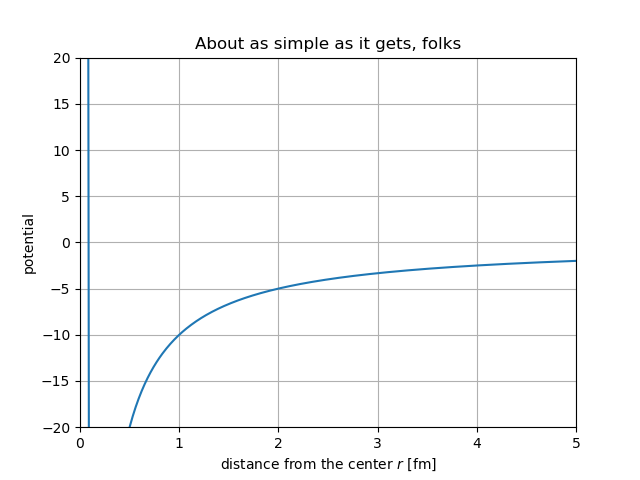
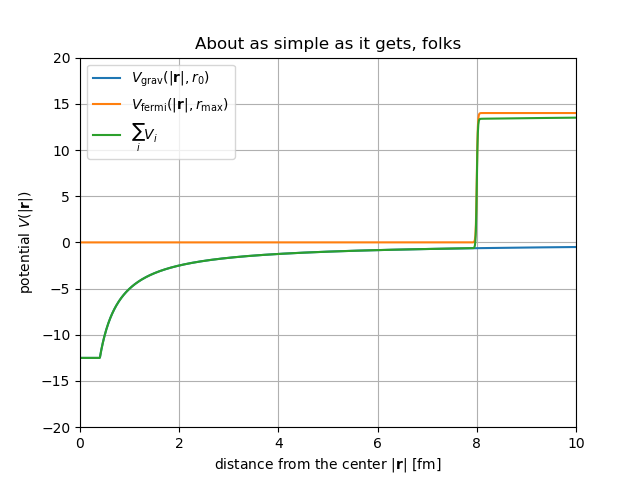
multi-force-center geometry added

diff --git a/a-physicists-journey/central_ff_problem_2.py b/a-physicists-journey/central_ff_problem_2.py
@@ -1,0 +1,178 @@
+import time
+import numpy as np
+import matplotlib.pyplot as plt
+import more_itertools
+import pygame
+
+pygame.init()
+infos = pygame.display.Info()
+screen_size = (infos.current_w, infos.current_h)
+
+SCREEN_WIDTH = screen_size[0]
+SCREEN_HEIGHT = screen_size[1]
+ON_SCREEN_ORIGIN = (int(SCREEN_WIDTH / 2), int(SCREEN_HEIGHT / 2))
+
+
+def model_to_screen(coords):
+    return (ON_SCREEN_ORIGIN[0] + coords[0], ON_SCREEN_ORIGIN[1] + coords[1])
+
+
+CHARCOAL = (54, 69, 79)
+
+t_initial = 0
+t_final = 1e3
+dt = 1.0
+
+# model system:
+number_of_particles = 2
+
+particle_color = np.tile([204, 17, 0], [number_of_particles, 1])
+
+particle_size = list(
+    more_itertools.collapse(np.tile(6, [number_of_particles, 1])))
+
+r0 = np.random.randint(low=-20, high=60, size=(number_of_particles, 2))
+r0 = np.tile([100, 100], (2, 1))
+
+initial_distances_from_center = [np.sqrt(r[0]**2 + r[1]**2) for r in r0]
+
+v0 = np.random.uniform(low=-0.5, high=0.5, size=(number_of_particles, 2))
+
+force_strength = 323
+center_color = [250, 255, 250]
+center_size = 7
+R_cut = center_size
+fermi_depth = 0.
+fermi_slope = 3.2
+fermi_radius = 200
+
+
+# 1/r potential with centre at pos c => -k*(r-c)/(r-c)^3 force
+# particle masses are identical and set to 1
+# if the particles' distance to a center is less than the center's plus the particle's
+# radius, the particle experiences a repulsion
+def gforce(coords, k, cntr=[0, 0]):
+
+    dist_vecs = [
+        np.sqrt((coord[0] - cntr[0])**2 + (coord[1] - cntr[1])**2)
+        for coord in coords
+    ]
+
+    frc = []
+    for i in range(len(coords)):
+
+        if dist_vecs[i] == 0.0:
+            frc.append(np.array([0, 0]))
+        elif 0 < dist_vecs[i] < (R_cut + particle_size[i]):
+            frc.append(
+                np.abs(0.0001 * k) * np.array([
+                    np.abs(coords[i][0] - cntr[0]) / dist_vecs[i]**1,
+                    np.abs(coords[i][1] - cntr[1]) / dist_vecs[i]**1
+                ]))
+        elif dist_vecs[i] > R_cut + particle_size[i]:
+            frc.append(k * np.array([
+                -(coords[i][0] - cntr[0]) / dist_vecs[i]**3,
+                -(coords[i][1] - cntr[1]) / dist_vecs[i]**3
+            ]))
+
+    return frc
+
+
+# potential approximation of spatial confinement to a finite volume
+# here: circular disk around the origin with extend r0 and steepness k
+def fforce(coords, l, k, r0):
+
+    dist_vecs = [np.sqrt(coord[0]**2 + coord[1]**2) for coord in coords]
+    frc = [
+        -l / (dist_vecs[i] * k) * np.exp((dist_vecs[i] - r0) / k) /
+        (np.exp(-k * (dist_vecs[i] - r0)) + 1)**2 *
+        np.array([coords[i][0], coords[i][1]]) for i in range(len(coords))
+    ]
+    #if abs(frc[0][0] > 1):
+    #    print(frc)
+    #    time.sleep(5)
+    return frc
+
+
+pygame.init()
+# Open a single window with set dimensions.
+screen = pygame.display.set_mode((SCREEN_WIDTH, SCREEN_HEIGHT))
+
+t = t_initial
+r1 = r0
+
+# define a set of force centers; cf. locations of assumed infinitely
+# heavy nulcei/suns/etc.
+# place N nuclei symmetrically on a circle of radius R around the origin
+nbr_centers = 5
+R_centers = 100
+force_centers = [[
+    R_centers * np.cos(nc * 2 * np.pi / nbr_centers),
+    R_centers * np.sin(nc * 2 * np.pi / nbr_centers)
+] for nc in range(nbr_centers)]
+
+phase_space = []
+
+while t < t_final:
+
+    v = v0
+    # calculate new position vector: r(t+dt) = r(t) + v(t)*dt
+    r2 = [
+        np.array([
+            r1[particle][0] + v0[particle][0] * dt,
+            r1[particle][1] + v0[particle][1] * dt
+        ]) for particle in range(number_of_particles)
+    ]
+
+    r1 = r2
+
+    v0 = [
+        v[particle] + (
+            sum(
+                np.array([
+                    gforce(r2, force_strength, cntr=cc)[particle]
+                    for cc in force_centers
+                ]))
+            #+ fforce(r2, fermi_depth, fermi_slope, fermi_radius)[particle]
+        ) * dt for particle in range(number_of_particles)
+    ]
+    phase_space.append([r2, v])
+    screen.fill(CHARCOAL)
+    # draw the locations of the ``nuclei'' (force centers)
+    for cc in force_centers:
+        ri = np.array(model_to_screen(cc))
+        pygame.draw.circle(screen, center_color, ri.astype(int), center_size)
+
+    # visualize system at t+dt
+    for particle in range(number_of_particles):
+
+        ri2 = np.array(model_to_screen(r2[particle]))
+        try:
+            pygame.draw.circle(screen, particle_color[particle],
+                               ri2.astype(int), particle_size[particle])
+        except:
+            print('pygame run-time error:\nr=', r2, ri2, '\nv=', v0)
+            exit()
+
+# Draw by flipping buffer (double-buffering).
+    pygame.display.flip()
+    t += dt
+
+yy = np.array(phase_space)[:, 0][:, 0][:, 0]
+xx = range(len(yy))
+fig, ax = plt.subplots()
+
+#ax.set_xlim(0, rmax)
+#ax.set_ylim(-20, 20)
+
+ax.plot(xx, yy, label=r'')
+
+ax.set(xlabel=r'distance from the center $|\mathbf{r}|$ [fm]',
+       ylabel=r'potential $V(|\mathbf{r}|)$',
+       title='About as simple as it gets, folks')
+ax.grid()
+
+plt.legend(loc='best', numpoints=1)
+
+fig.savefig("classical_orbits.png")
+#plt.show()

diff --git a/a-physicists-journey/plot_potentials.py b/a-physicists-journey/plot_potentials.py
@@ -2,7 +2,7 @@ import matplotlib.pyplot as plt
 import numpy as np
 
 # Data for plotting
-rmax = 5
+rmax = 10
 r = np.arange(0.001, rmax, 0.01)
 
 
@@ -16,7 +16,6 @@ def graCutPot(r, grav, hardness, range, steepness, cutoff=1e-4):
         deep = hardness / (1 + np.exp(
             (cutoff - range) / steepness)) - grav / cutoff
         pot = hardness / (1 + np.exp((r - range) / steepness)) - deep
-        print(deep, pot)
     return pot
 
 
@@ -24,30 +23,37 @@ def fermiPot(r, strength, range, steepness):
     return strength * (1 - 1 / (1 + np.exp((r - range) / steepness)))
 
 
-graS = -10
-graCut = 1e-1
-fmS = 4
-fmR = graCut
-fmSt = 0.05
-hard = 1500
+graS = -5
+graCut = 4e-1
+hard = 30
+
+fmS = 14
+fmR = 8
+fmSt = 0.01
 
 datG = [gravPot(rr, graS) for rr in r]
 
-datGC = [graCutPot(rr, graS, hard, fmR, fmSt, cutoff=graCut) for rr in r]
+datGC = [graCutPot(rr, graS, hard, *graCut, fmSt, cutoff=graCut) for rr in r]
 datF = [fermiPot(rr, fmS, fmR, fmSt) for rr in r]
+
+datSum = [datF[n] + datGC[n] for n in range(len(datF))]
 
 fig, ax = plt.subplots()
 
 ax.set_xlim(0, rmax)
 ax.set_ylim(-20, 20)
 
-ax.plot(r, datGC)
+ax.plot(r, datGC, label=r'$V_{\rm{grav}}(|\mathbf{r}|,r_0)$')
+ax.plot(r, datF, label=r'$V_{\rm{fermi}}(|\mathbf{r}|,r_{\rm{max}})$')
+ax.plot(r, datSum, label=r'$\sum_i V_i$')
 
 ax.set(
-    xlabel=r'distance from the center $r$ [fm]',
-    ylabel=r'potential',
+    xlabel=r'distance from the center $|\mathbf{r}|$ [fm]',
+    ylabel=r'potential $V(|\mathbf{r}|)$',
     title='About as simple as it gets, folks')
 ax.grid()
+
+plt.legend(loc='best', numpoints=1)
 
 fig.savefig("classical_potentials.png")
 #plt.show()

diff --git a/a-physicists-journey/spiral.py b/a-physicists-journey/spiral.py
@@ -1,0 +1,28 @@
+from mpl_toolkits import mplot3d
+import numpy as np
+import matplotlib.pyplot as plt
+
+fig = plt.figure()
+ax = plt.axes(projection='3d')
+
+z = np.linspace(0, 3, 1500)
+x = -np.exp(-0.5 * z**2) * np.sin(20 * z)
+y = -np.exp(-0.5 * z**2) * np.cos(20 * z)
+
+ax.plot3D(x, y, -z, 'maroon')
+
+z = np.linspace(2, 6, 1500)
+x = -np.exp(-0.025 * z**0.5) * np.sin(20 * z)
+y = -np.exp(-0.025 * z**0.5) * np.cos(20 * z)
+
+ax.plot3D(x, y, -z, 'blue')
+
+ax.axis('off')
+ax.set_facecolor('white')
+ax.w_xaxis.set_pane_color((1.0, 1.0, 1.0, 0.0))
+ax.w_yaxis.set_pane_color((1.0, 1.0, 1.0, 0.0))
+ax.w_zaxis.set_pane_color((1.0, 1.0, 1.0, 0.0))
+ax.w_zaxis.line.set_visible(False)
+
+ax.set_title('')
+fig.savefig("spiral.png")
